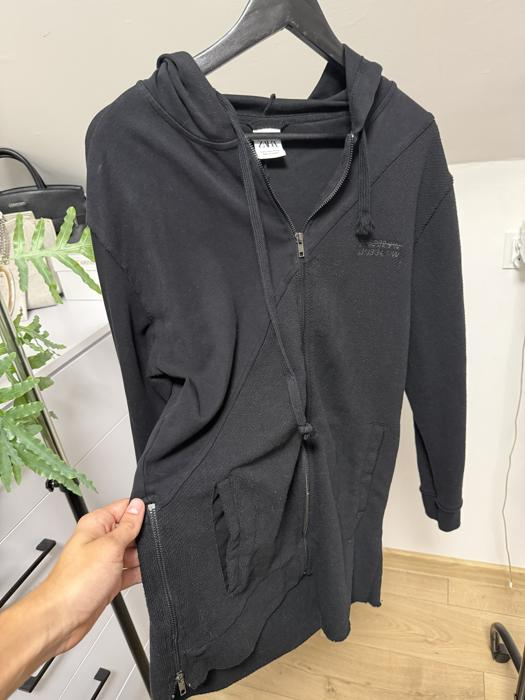
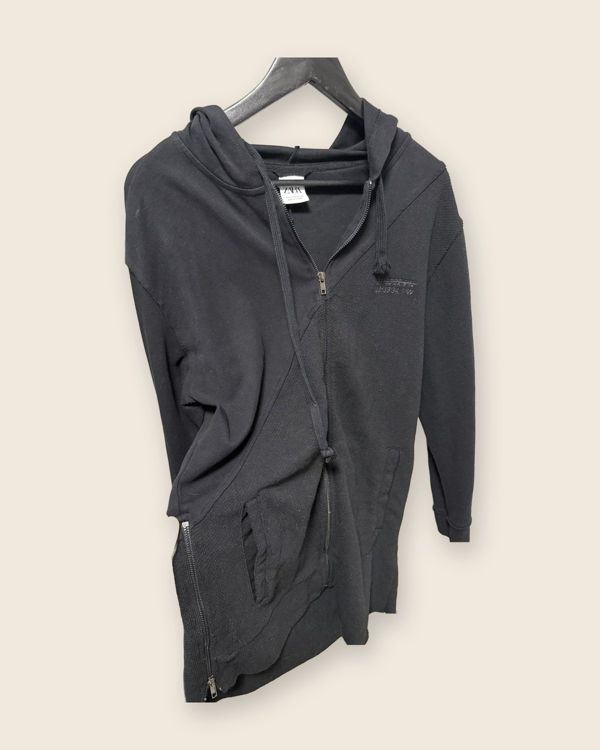
Główne zdjęcia (przód i tył) wycięte z tła na kremowym tle; pokazywane jako pierwsze, reszta bez obróbki
Claude-Session: https://claude.ai/code/session_01BKkB1GUUbNv1bBZKUuJNU4

diff --git a/strona/app.js b/strona/app.js
@@ -15,7 +15,14 @@
   function money(n) { return String(n).replace(/\B(?=(\d{3})+(?!\d))/g, ' ') + ' zł'; }
   function pad(n) { return (n < 10 ? '0' : '') + n; }
   function byKod(k) { return P.filter(function (p) { return p.kod === k; })[0]; }
-  function img(p, n) { return 'img/' + p.folder + '/' + (n === 'thumb' ? 'thumb' : pad(n)) + '.jpg'; }
+  function img(p, n) { return 'img/' + p.folder + '/' + (typeof n === 'string' ? n : pad(n)) + '.jpg'; }
+  // Galeria: najpierw zdjęcia wycięte z tła (w01, w02...), potem wszystkie oryginalne
+  function photos(p) {
+    var list = [], i;
+    for (i = 1; i <= (p.wyciete || 0); i++) list.push('w' + pad(i));
+    for (i = 1; i <= p.zdjecia; i++) list.push(pad(i));
+    return list;
+  }
   function num(p) { return parseInt(String(p.kod).replace(/\D/g, ''), 10) || 0; }
   function plural(n, a, b, c) { return n === 1 ? a : (n % 10 >= 2 && n % 10 <= 4 && (n % 100 < 12 || n % 100 > 14) ? b : c); }
   function store(key, val) {
@@ -112,7 +119,7 @@
   var REEL_MS = 4800, reelI = -1, reelT = null, reelPaused = false;
   REEL.forEach(function (p, i) {
     var d = document.createElement('div'); d.className = 'slide';
-    d.innerHTML = '<img src="' + img(p, 1) + '" alt="' + esc(p.marka + ' ' + p.tytul) + '"' + (i ? ' loading="lazy"' : '') + '>';
+    d.innerHTML = '<img src="' + img(p, p.wyciete ? 'w01' : 1) + '" alt="' + esc(p.marka + ' ' + p.tytul) + '"' + (i ? ' loading="lazy"' : '') + '>';
     reel.insertBefore(d, $('#heroVideo'));
   });
   dots.innerHTML = REEL.map(function () { return '<i></i>'; }).join('');
@@ -269,8 +276,8 @@
   function openModal(kod, fromRoute) {
     var p = byKod(kod); if (!p) return;
     openKod = kod;
-    var slides = '';
-    for (var i = 1; i <= p.zdjecia; i++) slides += '<img src="' + img(p, i) + '" alt="' + esc(p.marka + ' ' + p.tytul + ', zdjęcie ' + i) + '"' + (i > 2 ? ' loading="lazy"' : '') + '>';
+    var ph = photos(p), slides = '';
+    ph.forEach(function (n, k) { slides += '<img src="' + img(p, n) + '" alt="' + esc(p.marka + ' ' + p.tytul + ', zdjęcie ' + (k + 1)) + '"' + (k > 1 ? ' loading="lazy"' : '') + '>'; });
     var meas = (p.wymiary || []).length
       ? '<ul>' + p.wymiary.map(function (w) { return '<li>' + esc(w[0]) + ': <b>' + esc(w[1]) + '</b></li>'; }).join('') + '</ul>'
       : 'zapytaj w wiadomości';
@@ -279,7 +286,7 @@
       '<button class="x" id="modalClose" aria-label="Zamknij">×</button>' +
       '<div class="gallery"><div class="slides" id="slides">' + slides + '</div>' +
         '<button class="arrow prev" aria-label="Poprzednie zdjęcie">‹</button><button class="arrow next" aria-label="Następne zdjęcie">›</button>' +
-        '<span class="gcount" id="gcount">1 / ' + p.zdjecia + '</span></div>' +
+        '<span class="gcount" id="gcount">1 / ' + ph.length + '</span></div>' +
       '<div class="modal__body"><span class="card__brand">' + esc(p.marka) + '</span><h3>' + esc(p.tytul) + '</h3>' +
         '<div class="modal__price"><strong>' + money(p.cena) + '</strong><span>KOD ' + esc(p.kod) + '</span></div>' +
         '<p class="modal__lead">' + esc(p.opis) + '</p>' +
@@ -299,9 +306,9 @@
               '<a class="btn btn--line btn--full" id="buyNow" href="' + IG_DM + '" target="_blank" rel="noopener">Zamów przez Instagram</a>' +
               '<div class="msg" id="buyMsg" hidden>' + esc(msg) + '</div>') +
         '</div>' +
-        '<p class="modal__note">Wymiary na płasko. Na zdjęciach jest dokładnie ten egzemplarz.</p></div>';
+        '<p class="modal__note">' + (p.wyciete ? 'Zdjęcia 1–' + p.wyciete + ': ta rzecz wycięta z tła. Pozostałe bez obróbki.' : 'Na zdjęciach jest dokładnie ten egzemplarz.') + ' Wymiary na płasko.</p></div>';
     var sl = $('#slides'), gc = $('#gcount');
-    sl.addEventListener('scroll', function () { gc.textContent = (Math.round(sl.scrollLeft / sl.clientWidth) + 1) + ' / ' + p.zdjecia; }, { passive: true });
+    sl.addEventListener('scroll', function () { gc.textContent = (Math.round(sl.scrollLeft / sl.clientWidth) + 1) + ' / ' + ph.length; }, { passive: true });
     $('.arrow.prev', modal).onclick = function () { sl.scrollBy({ left: -sl.clientWidth, behavior: 'smooth' }); };
     $('.arrow.next', modal).onclick = function () { sl.scrollBy({ left: sl.clientWidth, behavior: 'smooth' }); };
     var bn = $('#buyNow');

diff --git a/strona/style.css b/strona/style.css
@@ -5,6 +5,7 @@
   --paper:#f6efe6;        /* krem z logo */
   --sand:#ece3d6;
   --stone:#d9cdbb;
+  --photo:#f1e9de;        /* tło zdjęć wyciętych z tła */
   --card:#fbf8f3;
   --line:rgba(30,43,69,.14);
   --terra:#c8694a;        /* terakota z logo */
@@ -81,7 +82,7 @@ body::before{content:"";position:fixed;inset:0 0 auto;height:env(safe-area-inset
 .hero__facts{display:flex;gap:28px;flex-wrap:wrap;margin-top:40px;padding-top:24px;border-top:1px solid var(--line);font-size:13px;color:var(--muted)}
 .hero__facts b{display:block;font-family:var(--serif);font-weight:500;font-size:26px;color:var(--ink);line-height:1.1}
 .stage{position:relative}
-.reel{position:relative;aspect-ratio:4/5;max-width:100%;overflow:hidden;background:var(--stone)}
+.reel{position:relative;aspect-ratio:4/5;max-width:100%;overflow:hidden;background:var(--photo)}
 .slide{position:absolute;inset:0;opacity:0;transition:opacity 1.4s var(--ease)}
 .slide.on{opacity:1}
 .slide img{width:100%;height:100%;object-fit:cover;transform:scale(1);transition:transform 7s linear}
@@ -132,7 +133,7 @@ body::before{content:"";position:fixed;inset:0 0 auto;height:env(safe-area-inset
 .grid{display:grid;grid-template-columns:repeat(4,minmax(0,1fr));gap:46px 26px}
 .card{position:relative;animation:cardin .7s var(--ease) both}
 @keyframes cardin{from{opacity:0;transform:translateY(16px)}to{opacity:1;transform:none}}
-.card__img{position:relative;aspect-ratio:4/5;max-width:100%;overflow:hidden;cursor:pointer;display:block;width:100%;background:var(--stone)}
+.card__img{position:relative;aspect-ratio:4/5;max-width:100%;overflow:hidden;cursor:pointer;display:block;width:100%;background:var(--photo)}
 .card__img img{width:100%;height:100%;object-fit:cover;transition:transform .9s var(--ease)}
 .card:hover .card__img img{transform:scale(1.05)}
 .card.is-sold .card__img img{filter:grayscale(.85);opacity:.6}
@@ -155,7 +156,7 @@ body::before{content:"";position:fixed;inset:0 0 auto;height:env(safe-area-inset
 .cats{padding:20px 0 110px}
 .cats__grid{display:grid;grid-template-columns:repeat(5,minmax(0,1fr));gap:18px}
 .cat{display:block;position:relative}
-.cat__img{position:relative;aspect-ratio:4/5;max-width:100%;overflow:hidden;background:var(--stone)}
+.cat__img{position:relative;aspect-ratio:4/5;max-width:100%;overflow:hidden;background:var(--photo)}
 .cat__img img{width:100%;height:100%;object-fit:cover;transition:transform .9s var(--ease)}
 .cat:hover .cat__img img{transform:scale(1.06)}
 .cat__lbl{display:flex;justify-content:space-between;align-items:baseline;gap:10px;padding-top:14px;border-bottom:1px solid var(--line);padding-bottom:12px}
@@ -257,7 +258,7 @@ details p{padding:0 40px 26px 0;color:var(--muted);max-width:580px}
 .empty{text-align:center;padding:70px 10px;color:var(--muted)}
 .empty h4{font-family:var(--serif);font-weight:400;font-size:28px;color:var(--ink);margin-bottom:10px}
 .line{display:grid;grid-template-columns:76px minmax(0,1fr) auto;gap:14px;padding:20px 0;border-bottom:1px solid var(--line);align-items:start}
-.line__img{width:76px;height:95px;overflow:hidden;background:var(--stone)}
+.line__img{width:76px;height:95px;overflow:hidden;background:var(--photo)}
 .line__img img{width:100%;height:100%;object-fit:cover}
 .line__brand{font-size:10.5px;letter-spacing:.22em;text-transform:uppercase;color:var(--terra-text)}
 .line__name{font-family:var(--serif);font-size:19px;line-height:1.15;font-weight:500;margin:2px 0 4px}
@@ -276,7 +277,7 @@ details p{padding:0 40px 26px 0;color:var(--muted);max-width:580px}
 .modal.on{opacity:1;pointer-events:auto}
 .modal__box{position:relative;background:var(--paper);width:min(1060px,100%);max-height:92vh;overflow:auto;display:grid;grid-template-columns:minmax(0,1.05fr) minmax(0,1fr);transform:translateY(24px);transition:transform .55s var(--ease)}
 .modal.on .modal__box{transform:none}
-.gallery{position:relative;background:var(--stone);min-width:0;align-self:start;position:sticky;top:0}
+.gallery{position:relative;background:var(--photo);min-width:0;align-self:start;position:sticky;top:0}
 .slides{display:flex;overflow-x:auto;scroll-snap-type:x mandatory;scrollbar-width:none;aspect-ratio:4/5;max-width:100%}
 .slides::-webkit-scrollbar{display:none}
 .slides img{flex:0 0 100%;width:100%;height:100%;object-fit:cover;scroll-snap-align:start}

diff --git a/strona/produkty.js b/strona/produkty.js
@@ -5,7 +5,8 @@
    Sprzedane:  zmień  sprzedane: false  na  sprzedane: true
    Nowa rzecz: skopiuj cały blok { ... } jednej rzeczy, nadaj kolejny kod
                (PN006, PN007...), zdjęcia wrzuć do img/p6/
-               (01.jpg = przód, kolejne numery, thumb.jpg = miniatura)
+               (01.jpg = przód, kolejne numery, thumb.jpg = miniatura,
+               w01.jpg, w02.jpg = przód i tył wycięte z tła)
    ================================================================ */
 
 window.SKLEP = {
@@ -34,6 +35,7 @@ window.PRODUKTY = [
     ],
     material: "72% wełna, 28% poliamid",
     kolor: "beżowy",
+    wyciete: 2,     // zdjęcia w01.jpg, w02.jpg = rzecz wycięta z tła (pokazywane jako pierwsze)
     zdjecia: 7,
     folder: "p1",
     // DO SPRAWDZENIA: brak szerokości pod pachami; ciemniejsze miejsce pod golfem na plecach – światło czy plamka?
@@ -56,6 +58,7 @@ window.PRODUKTY = [
     ],
     material: "Tkanina główna: 46% bawełna, 46% poliester, 8% wiskoza. Tkanina dodatkowa: 100% bawełna.",
     kolor: "czarny",
+    wyciete: 2,     // zdjęcia w01.jpg, w02.jpg = rzecz wycięta z tła (pokazywane jako pierwsze)
     zdjecia: 9,
     folder: "p2",
     // DO SPRAWDZENIA: długość (brak pewnego pomiaru), miejsce pomiaru szerokości i rękawa
@@ -77,6 +80,7 @@ window.PRODUKTY = [
     ],
     material: "84% poliester, 16% bawełna. Podszewka: 100% poliester.",
     kolor: "niebieski melanż",
+    wyciete: 2,     // zdjęcia w01.jpg, w02.jpg = rzecz wycięta z tła (pokazywane jako pierwsze)
     zdjecia: 10,
     folder: "p3",
     // DO SPRAWDZENIA: szerokość pod pachami, rękaw, ramiona; ciemniejsze miejsce na plecach, kropka na rękawie, plamka na podszewce
@@ -92,7 +96,7 @@ window.PRODUKTY = [
     cena: 120,
     sprzedane: false,
     opis: "Elastyczna kurtka z linii Cold.RDY, rozpinana na całej długości, z kapturem. W środku polar w korpusie i kapturze. Kieszenie na zamek z odblaskowymi detalami, ściągacze z napisem COLD.RDY.",
-    wady: "Drobne jasne smugi na przodzie (zdjęcie 7) i lekko zbity polar przy mankiecie (zdjęcie 5).",
+    wady: "Drobne jasne smugi na przodzie (zdjęcie 9) i lekko zbity polar przy mankiecie (zdjęcie 7).",
     wymiary: [
       ["Pod pachami", "ok. 52 cm"],
       ["Długość (od kołnierza)", "ok. 70 cm"],
@@ -100,6 +104,7 @@ window.PRODUKTY = [
     ],
     material: "Materiał główny: 92% poliester z recyklingu, 8% elastan.",
     kolor: "czarny",
+    wyciete: 2,     // zdjęcia w01.jpg, w02.jpg = rzecz wycięta z tła (pokazywane jako pierwsze)
     zdjecia: 8,
     folder: "p4",
     // DO SPRAWDZENIA: skład podszewki; czy smugi schodzą w praniu (wtedy stan: Bardzo dobry)
@@ -115,12 +120,13 @@ window.PRODUKTY = [
     cena: 49,
     sprzedane: false,
     opis: "Luźny, pikowany bezrękawnik ze stójką i odpinanym kapturem (zamek i napy). Zamek przykryty listwą na napy, dwie kieszenie boczne. Ciepła warstwa na jesień.",
-    wady: "Jasne plamy na kapturze od zewnątrz i ciemniejsze zabrudzenia wewnątrz kaptura przy zamku (zdjęcia 5 i 6). Kaptur można odpiąć.",
+    wady: "Jasne plamy na kapturze od zewnątrz i ciemniejsze zabrudzenia wewnątrz kaptura przy zamku (zdjęcia 7 i 8). Kaptur można odpiąć.",
     wymiary: [
       ["Długość (od góry stójki)", "ok. 77 cm"],
     ],
     material: "Wierzch: 100% poliester. Podszewka: 100% poliester.",
     kolor: "czarny",
+    wyciete: 2,     // zdjęcia w01.jpg, w02.jpg = rzecz wycięta z tła (pokazywane jako pierwsze)
     zdjecia: 12,
     folder: "p5",
     // DO SPRAWDZENIA: szerokość pod pachami, wypełnienie (brak na metce)

diff --git a/strona/index.html b/strona/index.html
@@ -124,7 +124,7 @@
         <p class="honest__lead">Każdą rzecz sprawdzam osobiście, mierzę i fotografuję, zanim trafi do sklepu. Jeśli coś jest nie tak, piszę o tym wprost.</p>
       </div>
       <ol class="steps">
-        <li><span>01</span><div><h3>Prawdziwe zdjęcia</h3><p>Na zdjęciach jest dokładnie ten egzemplarz, który dostaniesz. Przód, tył, metka i detale.</p></div></li>
+        <li><span>01</span><div><h3>Prawdziwe zdjęcia</h3><p>Na zdjęciach jest dokładnie ten egzemplarz, który dostaniesz. Pierwsze dwa są wycięte z tła, żeby rzecz była dobrze widoczna, reszta jest bez obróbki.</p></div></li>
         <li><span>02</span><div><h3>Wymiary z miarką</h3><p>Mierzę na płasko, w centymetrach. Brakuje wymiaru? Napisz, zmierzę.</p></div></li>
         <li><span>03</span><div><h3>Wady nazwane po imieniu</h3><p>Każda plama, przetarcie czy spranie jest opisane i pokazane na zdjęciu z numerem.</p></div></li>
       </ol>
